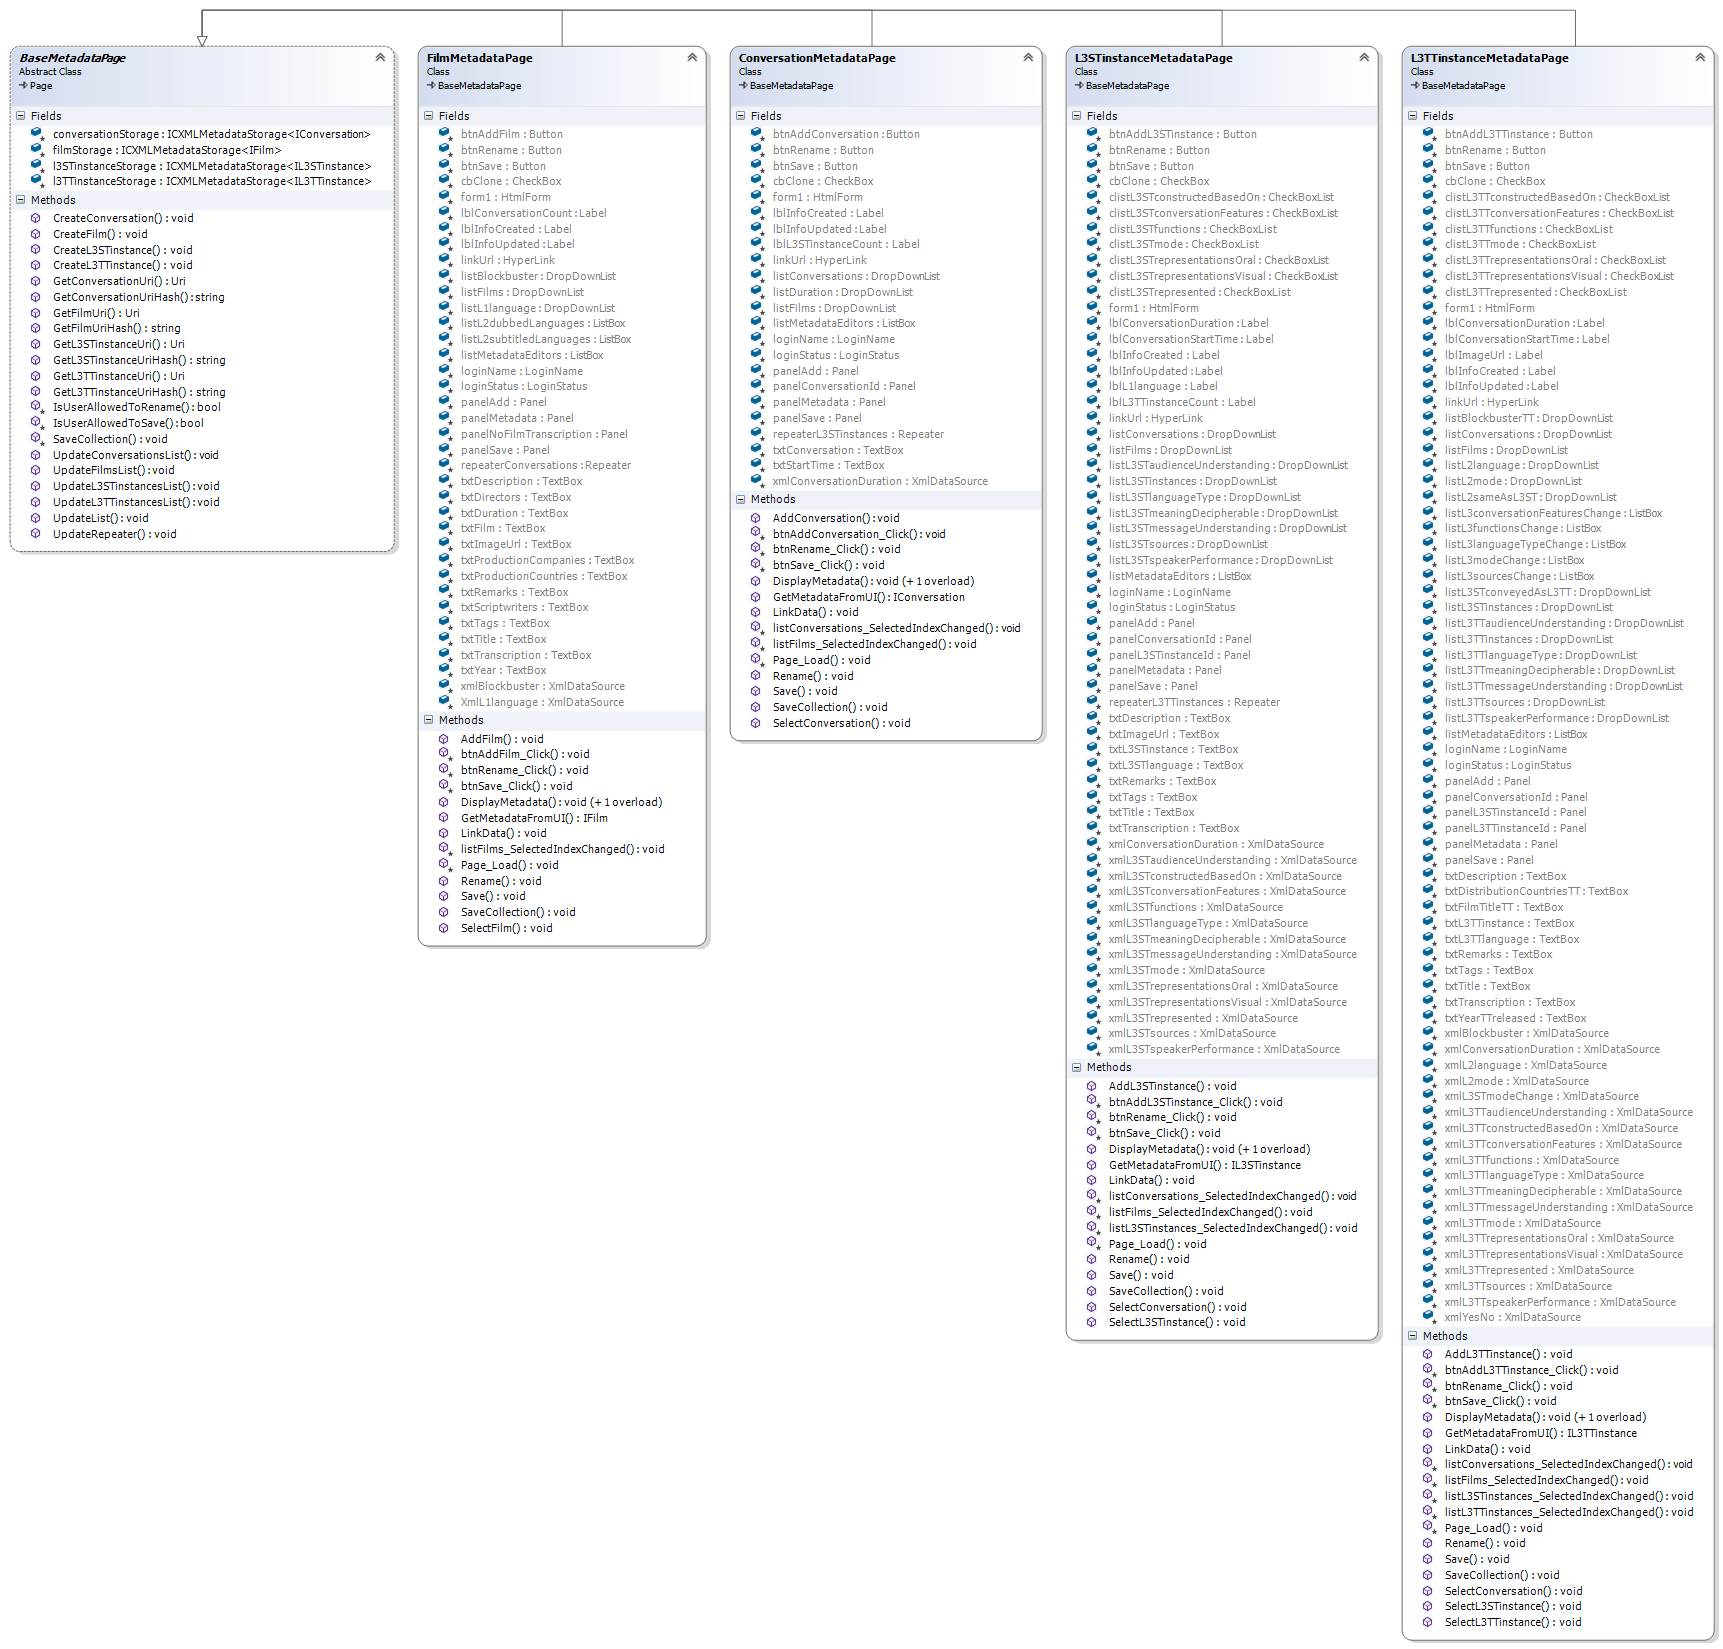
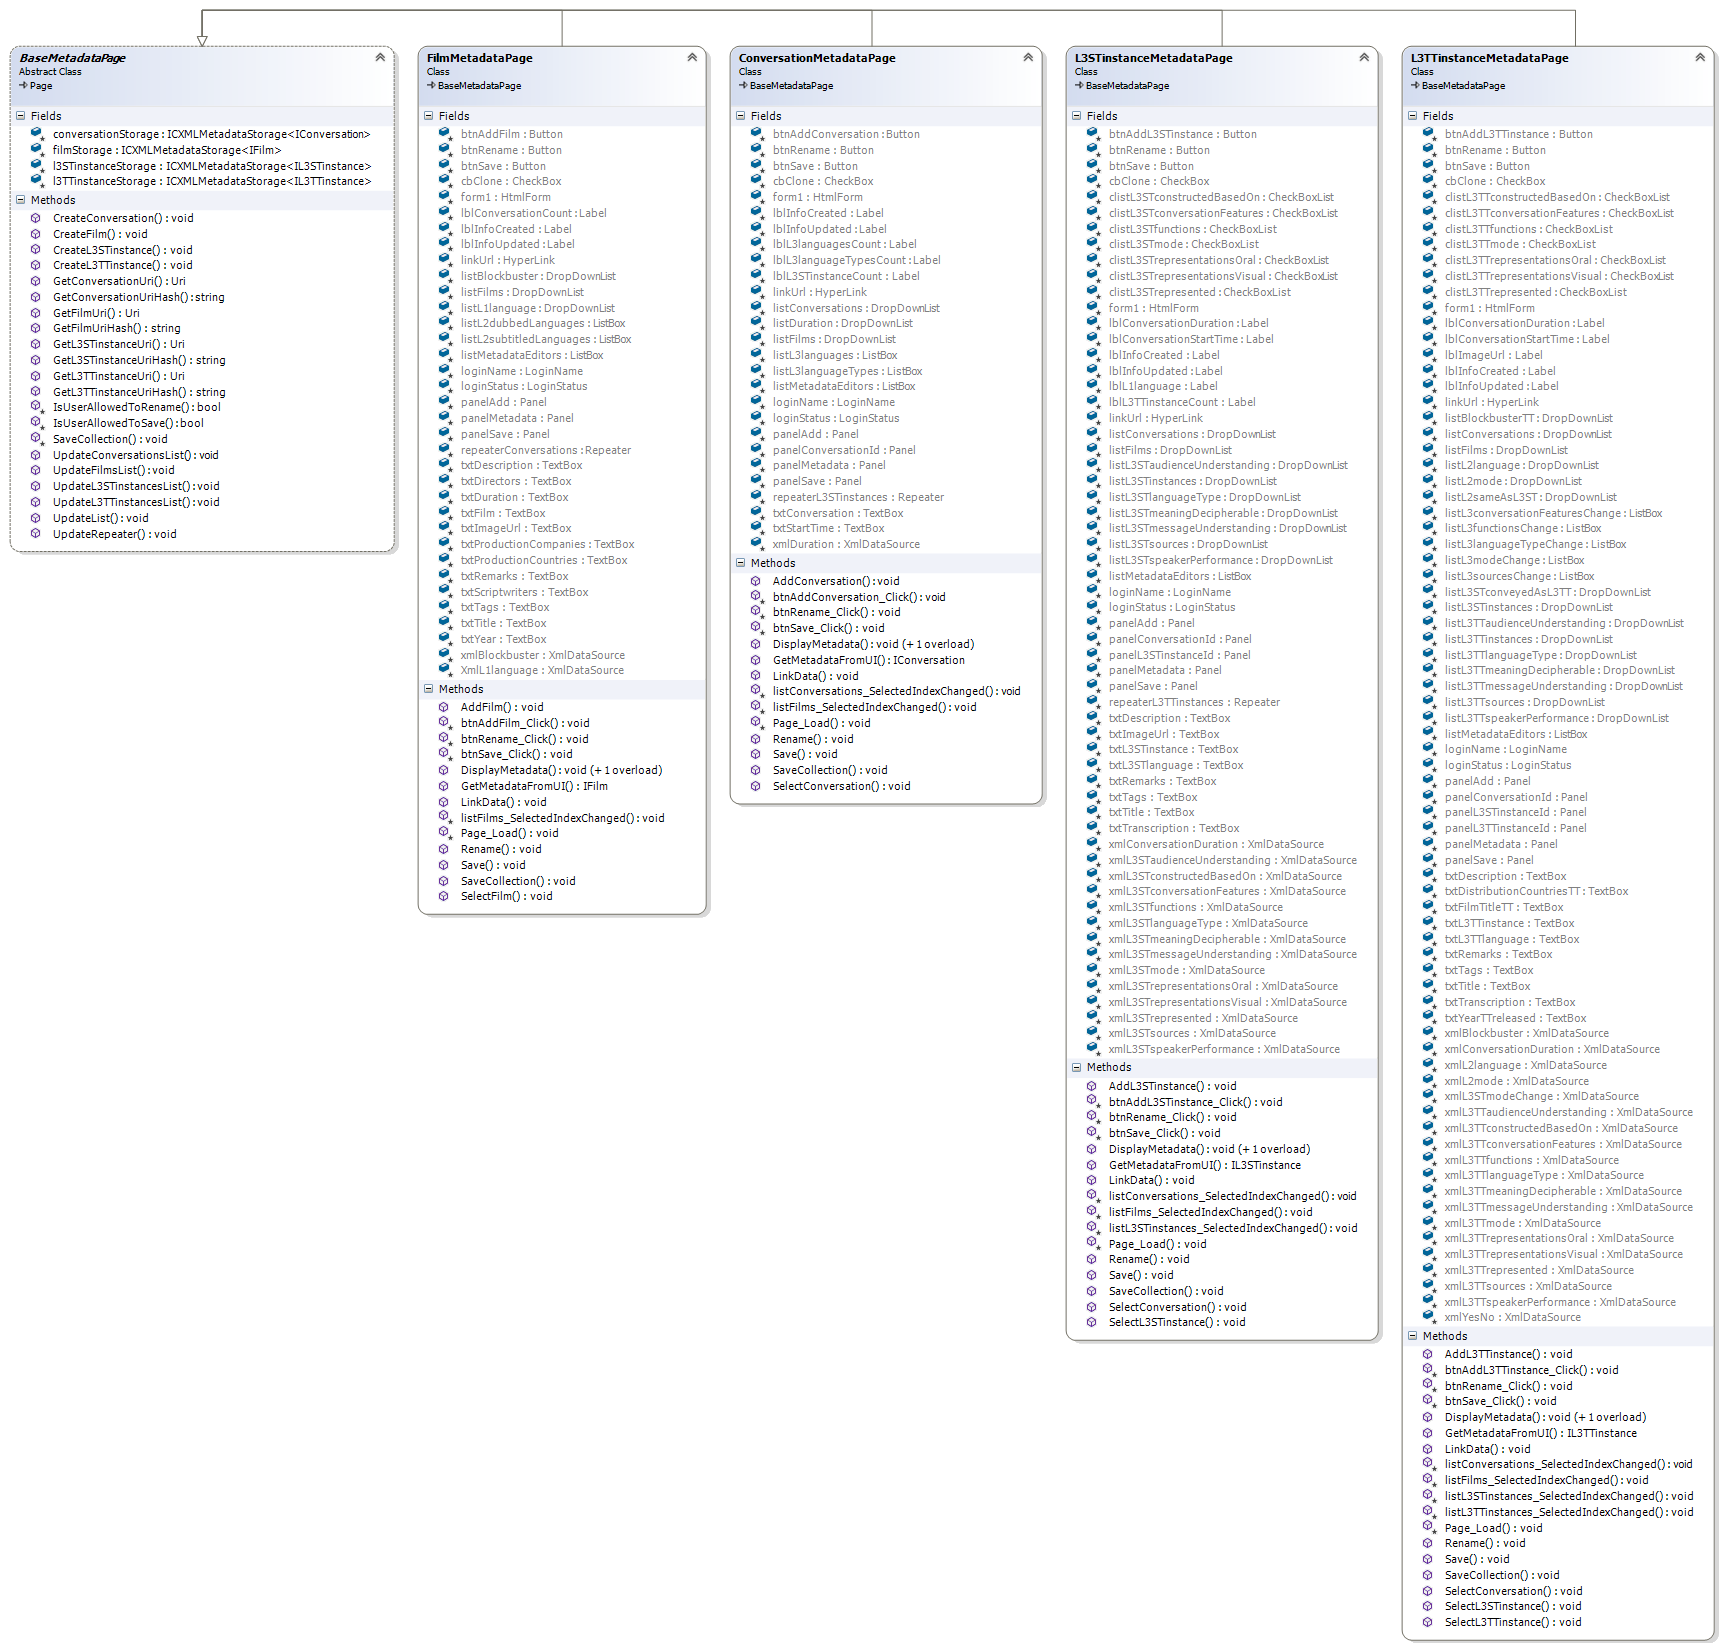
Cleaner metadata forms

Changed region(s): [[0.4306, 0.1237, 0.5844, 0.4948], [0.2461, 0.2474, 0.3999, 0.5876], [0.5844, 0.433, 0.6152, 0.4948]]

diff --git a/conversation/metadata/default.aspx.designer.cs b/conversation/metadata/default.aspx.designer.cs
@@ -157,6 +157,15 @@ namespace Trafilm.Gallery {
         protected global::System.Web.UI.WebControls.DropDownList listDuration;
         
         /// <summary>
+        /// lblL3languagesCount control.
+        /// </summary>
+        /// <remarks>
+        /// Auto-generated field.
+        /// To modify move field declaration from designer file to code-behind file.
+        /// </remarks>
+        protected global::System.Web.UI.WebControls.Label lblL3languagesCount;
+        
+        /// <summary>
         /// listL3languages control.
         /// </summary>
         /// <remarks>
@@ -166,6 +175,15 @@ namespace Trafilm.Gallery {
         protected global::System.Web.UI.WebControls.ListBox listL3languages;
         
         /// <summary>
+        /// lblL3languageTypesCount control.
+        /// </summary>
+        /// <remarks>
+        /// Auto-generated field.
+        /// To modify move field declaration from designer file to code-behind file.
+        /// </remarks>
+        protected global::System.Web.UI.WebControls.Label lblL3languageTypesCount;
+        
+        /// <summary>
         /// listL3languageTypes control.
         /// </summary>
         /// <remarks>
@@ -173,15 +191,6 @@ namespace Trafilm.Gallery {
         /// To modify move field declaration from designer file to code-behind file.
         /// </remarks>
         protected global::System.Web.UI.WebControls.ListBox listL3languageTypes;
-        
-        /// <summary>
-        /// lblL3STinstanceCount control.
-        /// </summary>
-        /// <remarks>
-        /// Auto-generated field.
-        /// To modify move field declaration from designer file to code-behind file.
-        /// </remarks>
-        protected global::System.Web.UI.WebControls.Label lblL3STinstanceCount;
         
         /// <summary>
         /// lblInfoCreated control.
@@ -227,6 +236,15 @@ namespace Trafilm.Gallery {
         /// To modify move field declaration from designer file to code-behind file.
         /// </remarks>
         protected global::System.Web.UI.WebControls.Button btnSave;
+        
+        /// <summary>
+        /// lblL3STinstanceCount control.
+        /// </summary>
+        /// <remarks>
+        /// Auto-generated field.
+        /// To modify move field declaration from designer file to code-behind file.
+        /// </remarks>
+        protected global::System.Web.UI.WebControls.Label lblL3STinstanceCount;
         
         /// <summary>
         /// repeaterL3STinstances control.

diff --git a/film/metadata/default.aspx.designer.cs b/film/metadata/default.aspx.designer.cs
@@ -247,33 +247,6 @@ namespace Trafilm.Gallery {
         protected global::System.Web.UI.WebControls.ListBox listL2subtitledLanguages;
         
         /// <summary>
-        /// lblConversationCount control.
-        /// </summary>
-        /// <remarks>
-        /// Auto-generated field.
-        /// To modify move field declaration from designer file to code-behind file.
-        /// </remarks>
-        protected global::System.Web.UI.WebControls.Label lblConversationCount;
-        
-        /// <summary>
-        /// panelNoFilmTranscription control.
-        /// </summary>
-        /// <remarks>
-        /// Auto-generated field.
-        /// To modify move field declaration from designer file to code-behind file.
-        /// </remarks>
-        protected global::System.Web.UI.WebControls.Panel panelNoFilmTranscription;
-        
-        /// <summary>
-        /// txtTranscription control.
-        /// </summary>
-        /// <remarks>
-        /// Auto-generated field.
-        /// To modify move field declaration from designer file to code-behind file.
-        /// </remarks>
-        protected global::System.Web.UI.WebControls.TextBox txtTranscription;
-        
-        /// <summary>
         /// txtTags control.
         /// </summary>
         /// <remarks>
@@ -335,6 +308,15 @@ namespace Trafilm.Gallery {
         /// To modify move field declaration from designer file to code-behind file.
         /// </remarks>
         protected global::System.Web.UI.WebControls.Button btnSave;
+        
+        /// <summary>
+        /// lblConversationCount control.
+        /// </summary>
+        /// <remarks>
+        /// Auto-generated field.
+        /// To modify move field declaration from designer file to code-behind file.
+        /// </remarks>
+        protected global::System.Web.UI.WebControls.Label lblConversationCount;
         
         /// <summary>
         /// repeaterConversations control.

diff --git a/conversation/metadata/default.aspx.cs b/conversation/metadata/default.aspx.cs
@@ -1,6 +1,6 @@
 //Project: Trafilm.Gallery (http://github.com/zoomicon/Trafilm.Gallery)
 //Filename: conversation\metadata\default.aspx.cs
-//Version: 20161007
+//Version: 20161008
 
 using Metadata.CXML;
 using Trafilm.Metadata;
@@ -142,10 +142,10 @@ namespace Trafilm.Gallery
 
       //Calculated properties//
 
-      //UI.Load(lblL3languagesCount, metadata.L3STlanguagesCount.ToString()); //don't need to display the count since there list of items is also shown
+      UI.Load(lblL3languagesCount, metadata.L3STlanguagesCount.ToString()); //don't need to display the count since there list of items is also shown
       UI.LoadContent(listL3languages, metadata.L3STlanguages); //do not use Load, use LoadContent to add values, not select them
 
-      //UI.Load(lblL3languageTypesCount, metadata.L3STlanguageTypesCount.ToString()); //don't need to display the count since there list of items is also shown
+      UI.Load(lblL3languageTypesCount, metadata.L3STlanguageTypesCount.ToString()); //don't need to display the count since there list of items is also shown
       UI.LoadContent(listL3languageTypes, metadata.L3STlanguageTypes); //do not use Load, use LoadContent to add values, not select them
 
       UI.Load(lblL3STinstanceCount, metadata.L3STinstanceCount.ToString());

diff --git a/L3STinstance/metadata/default.aspx.designer.cs b/L3STinstance/metadata/default.aspx.designer.cs
@@ -454,15 +454,6 @@ namespace Trafilm.Gallery {
         protected global::System.Web.UI.WebControls.DropDownList listL3STsources;
         
         /// <summary>
-        /// lblL3TTinstanceCount control.
-        /// </summary>
-        /// <remarks>
-        /// Auto-generated field.
-        /// To modify move field declaration from designer file to code-behind file.
-        /// </remarks>
-        protected global::System.Web.UI.WebControls.Label lblL3TTinstanceCount;
-        
-        /// <summary>
         /// txtTranscription control.
         /// </summary>
         /// <remarks>
@@ -533,6 +524,15 @@ namespace Trafilm.Gallery {
         /// To modify move field declaration from designer file to code-behind file.
         /// </remarks>
         protected global::System.Web.UI.WebControls.Button btnSave;
+        
+        /// <summary>
+        /// lblL3TTinstanceCount control.
+        /// </summary>
+        /// <remarks>
+        /// Auto-generated field.
+        /// To modify move field declaration from designer file to code-behind file.
+        /// </remarks>
+        protected global::System.Web.UI.WebControls.Label lblL3TTinstanceCount;
         
         /// <summary>
         /// repeaterL3TTinstances control.

diff --git a/film/metadata/default.aspx.cs b/film/metadata/default.aspx.cs
@@ -126,7 +126,7 @@ namespace Trafilm.Gallery
 
       UI.LoadContent(listMetadataEditors, metadata.MetadataEditors);
 
-      UI.Load(txtTranscription, metadata.Transcription);
+      //UI.Load(txtTranscription, metadata.Transcription);
 
       UI.Load(txtTags, metadata.Tags);
 
@@ -180,7 +180,7 @@ namespace Trafilm.Gallery
 
       metadata.MetadataEditors = UI.GetContent(listMetadataEditors);
 
-      metadata.Transcription = txtTranscription.Text;
+      //metadata.Transcription = txtTranscription.Text;
 
       metadata.Tags = UI.GetCommaSeparated(txtTags);
 
